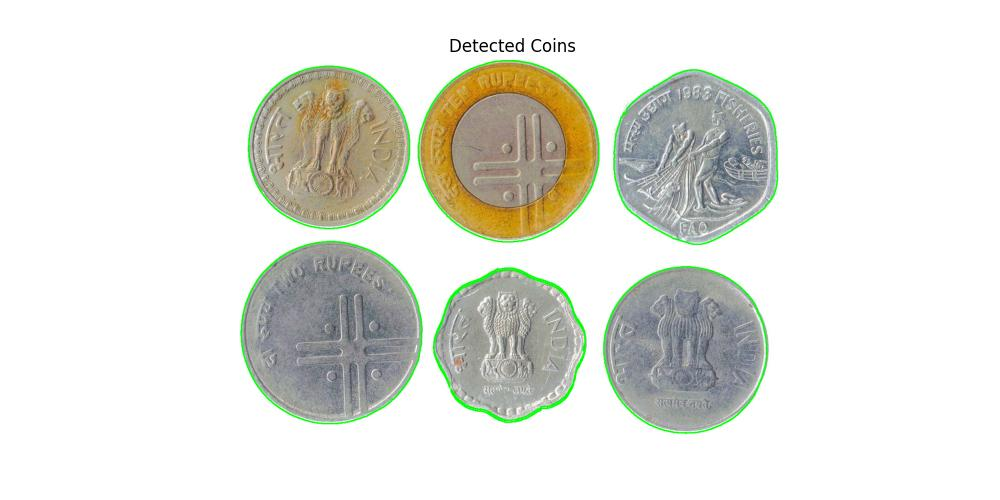
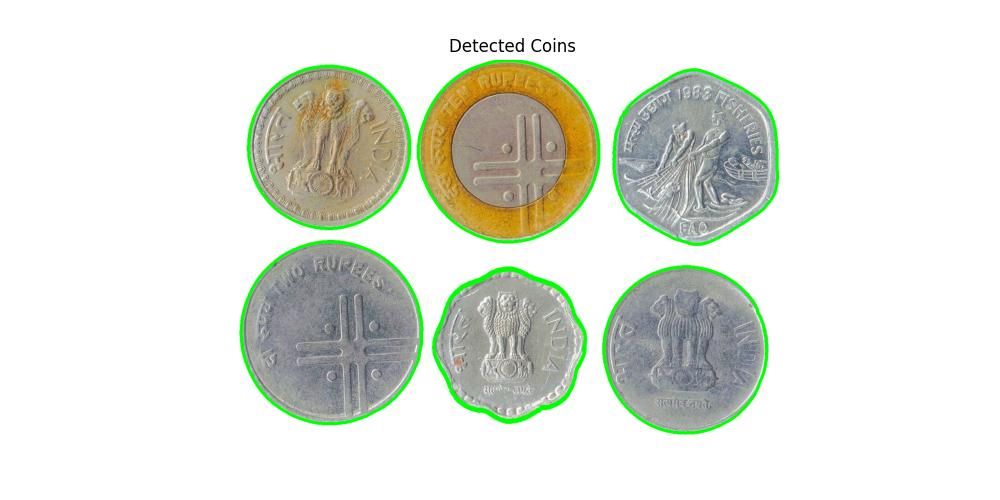
README for coin

diff --git a/panorama.py b/panorama.py
@@ -3,34 +3,39 @@ import numpy as np
 import matplotlib.pyplot as plt
 
 def save_image(title, img):
-    if len(img.shape) == 3:  # Color image
+    if len(img.shape) == 3:
         img = cv2.cvtColor(img, cv2.COLOR_BGR2RGB)
     plt.figure(figsize=(10, 5))
     plt.imshow(img)
     plt.title(title)
-    plt.axis('off')  # Hide axes
+    plt.axis('off')
     plt.savefig(f'images/{title}.jpg')
 
 def find_keypoints_and_matches(img1, img2, title):
-    # Find SIFT keypoints and matches between two images
     sift = cv2.SIFT_create()
     
-    # Detect keypoints and descriptors
     kp1, des1 = sift.detectAndCompute(img1, None)
     kp2, des2 = sift.detectAndCompute(img2, None)
+
+    # Use FLANN matcher for better accuracy
+    FLANN_INDEX_KDTREE = 1
+    index_params = dict(algorithm=FLANN_INDEX_KDTREE, trees=5)
+    search_params = dict(checks=50)
+    flann = cv2.FlannBasedMatcher(index_params, search_params)
     
-    # Match descriptors using BFMatcher
-    bf = cv2.BFMatcher(cv2.NORM_L2, crossCheck=True)
-    matches = bf.match(des1, des2)
-    
-    # Sort matches by distance (best matches first)
-    matches = sorted(matches, key=lambda x: x.distance)
-    
+    matches = flann.knnMatch(des1, des2, k=2)
+
+    # Apply Lowe's Ratio Test for better match filtering
+    good_matches = []
+    for m, n in matches:
+        if m.distance < 0.75 * n.distance:
+            good_matches.append(m)
+
     # Draw matches
-    match_img = cv2.drawMatches(img1, kp1, img2, kp2, matches[:50], None, flags=cv2.DrawMatchesFlags_NOT_DRAW_SINGLE_POINTS)
+    match_img = cv2.drawMatches(img1, kp1, img2, kp2, good_matches[:50], None, flags=cv2.DrawMatchesFlags_NOT_DRAW_SINGLE_POINTS)
     save_image(f'keypoint-matches-{title}-and-reference', match_img)
 
-    return kp1, kp2, matches
+    return kp1, kp2, good_matches
 
 def compute_homography(kp1, kp2, matches):
     # Compute the homography matrix using RANSAC
@@ -59,7 +64,7 @@ def warp_images(img1, img2, H):
     H_translated = translation_matrix @ H  # Adjust the homography
     
     # Warp img1 into the new panorama space
-    warped_img1 = cv2.warpPerspective(img1, H_translated, (x_max - x_min, y_max - y_min))
+    warped_img1 = cv2.warpPerspective(img1, H_translated, (x_max - x_min, y_max - y_min), cv2.INTER_CUBIC)
     
     # Also shift img2 to fit into the panorama
     translated_img2 = np.zeros((y_max - y_min, x_max - x_min, 3), dtype=np.uint8)
@@ -104,9 +109,15 @@ def create_panorama(image_files):
     for i, img in enumerate([images[0]] + images[2:]):
         panorama = stitch_images(img, panorama, title=str(i+1) if i == 0 else str(i+2))
 
+    scale_factor = 0.7
+    height, width = panorama.shape[:2]
+    new_dimensions = (int(width * scale_factor), int(height * scale_factor))
+    panorama = cv2.resize(panorama, new_dimensions, interpolation=cv2.INTER_AREA)
+
+
     save_image("final-panorama", panorama)
 
 if __name__ == "__main__":
-    image_files = ["2-1.jpeg", "2-2.jpeg", "2-3.jpeg", "2-4.jpeg"]
+    image_files = ["1.jpeg", "2.jpeg", "3.jpeg", "4.jpeg"]
     print('Using image 2 as the reference frame')
     create_panorama(image_files)

diff --git a/coin_detection.py b/coin_detection.py
@@ -25,7 +25,7 @@ def edge_and_coin_detection(image_blur_gray):
 
     # draw detected contours
     contour_image = cv2.cvtColor(image.copy(), cv2.COLOR_BGR2RGB)
-    cv2.drawContours(contour_image, contours, -1, (0,255,0), 2)
+    cv2.drawContours(contour_image, contours, -1, (0,255,0), 6)
 
     # Display detected contours
     plt.figure(figsize=(10,5))
@@ -66,26 +66,38 @@ def region_based_segmentation(image_thresh):
     
     return markers
 
-
-def count_coins(markers):
+def segment_individual_coins_and_count(markers, image):
     labels = np.unique(markers)
 
-
     coins = []
-    for label in labels[2:]:  
-    # Create a binary image in which only the area of the label is in the foreground 
-    # and the rest of the image is in the background   
+    for label in labels[2:]:
+        # Create a binary image - only the area of the label is in the foreground
         target = np.where(markers == label, 255, 0).astype(np.uint8)
         
-    # Perform contour extraction on the created binary image
-        contours, hierarchy = cv2.findContours(
+        # Perform contour extraction on the created binary image
+        contours, _ = cv2.findContours(
             target, cv2.RETR_EXTERNAL, cv2.CHAIN_APPROX_SIMPLE
         )
-        coins.append(contours[0])
+        
+        # For each coin (contour), extract and save the segmented coin
+        for i, contour in enumerate(contours):
+            # mask for the current coin
+            mask = np.zeros_like(target)
+            cv2.drawContours(mask, [contour], -1, 255, thickness=cv2.FILLED)
+            
+            # Extract the coin from the original
+            coin = cv2.bitwise_and(image, image, mask=mask)
+            
+            # bounding box around the coin
+            x, y, w, h = cv2.boundingRect(contour)
+            coin_cropped = coin[y:y+h, x:x+w]
+            
+            coin_filename = f'coin_{label-1}.jpg'
+            cv2.imwrite(f'images/{coin_filename}', coin_cropped)
+            
+            coins.append(coin_cropped)
 
-    number_of_objects_in_image= len(coins)
-
-    print ("The number of objects in this image: ", str(number_of_objects_in_image))
+    print("The number of objects in this image: ", len(coins))
 
 
 if __name__ == "__main__":
@@ -93,4 +105,4 @@ if __name__ == "__main__":
     image_blur_gray, image_res, image_thresh = preprocess_image(image)
     edge_and_coin_detection(image_blur_gray)
     markers = region_based_segmentation(image_thresh)
-    count_coins(markers)
+    segment_individual_coins_and_count(markers, image)

diff --git a/README.md b/README.md
@@ -1,1 +1,73 @@
 # VR_Assignment1_Dyuthi-Vivek_IMT2022523
+
+## Coin detection
+
+![coins](coins.jpg)  
+Input image file: `coins.jpg`
+
+---
+
+### **1. Image preprocessing**
+- **Median blurring (`cv2.medianBlur`)** - Used to remove noise while preserving edges.
+
+- **Grayscale conversion (`cv2.cvtColor`)** - Converted the image to grayscale. This was used in Canny edge detection to simplify gradient calculations.
+
+- **Thresholding with Otsu’s Method (`cv2.threshold`)** - Converted the grayscale image into a binary image. Otsu’s method automatically selects the best threshold based on histogram analysis to separate objects from the background. The produced binary image was used in region-based segmentation.
+
+---
+
+### **2. Edge detection and contour detection**
+- **Canny Edge Detection (`cv2.Canny`)** - Detected edges by calculating intensity changes in the image. Canny worked well after the two thresholds were tweaked to achieve a more accurate edge detection.
+
+![canny](images/coin-detection-canny.jpg)  
+file: `images/coin-detection-canny.jpg`
+
+- **Dilation (`cv2.dilate`)** - Strengthened the edges to ensure complete contours. Increasing the number of iterations improved contour detection by reinforcing the edges.
+
+- **Contour detection (`cv2.findContours`)** - Identified the boundaries of coins based on detected edges. A green boundary was drawn around each coin.
+
+![contour](images/coin-detection-contours.jpg)  
+file: `images/coin-detection-contours.jpg`
+
+---
+
+### **3. Region-based segmentation**
+- **Morphological Opening (`cv2.morphologyEx`)** - Used to remove small noise in the thresholded image.
+
+- **Distance Transform (`cv2.distanceTransform`)** - Used to identify the center of objects to ensure proper separation. Lowering the threshold (to 0.2) ensured that coins were detected more fully and distinctly.
+
+- **Watershed Algorithm (`cv2.watershed`)** - This region-based segmentation method was used to segment each coin. It separates touching coins by treating them as topographical regions.  
+  The algorithm assigns labels as follows:  
+    - `1` → Background  
+    - `2, 3, 4,...` → Different segmented objects  
+    - `-1` → Object boundaries (watershed lines), which help separate overlapping coins.
+
+![segmented](images/coin-detection-region-based-segmented.jpg)  
+file: `images/coin-detection-region-based-segmented.jpg`
+
+---
+
+### **4. Segmentation and Counting of Coins**
+- **Connected Components Analysis (`cv2.connectedComponents`)** - Assigned a unique label to each coin by labeling connected objects in the sure foreground.
+- **Contours in Labeled Regions (`cv2.findContours`)** - Counted the segmented coins.
+- **Extracted each coin as a separate image** - A mask was created for each individual coin using **`cv2.bitwise_and`**.  
+  A bounding box was applied using **`cv2.boundingRect`** to isolate each coin clearly.
+
+#### **Code Output:**
+The number of objects in this image: **6**  
+
+#### **Segmented Coin Images:**
+<p align="center">
+    <img src="images/coin_1.jpg" width="100">
+    <img src="images/coin_2.jpg" width="100">
+    <img src="images/coin_3.jpg" width="100">
+    <img src="images/coin_4.jpg" width="100">
+    <img src="images/coin_5.jpg" width="100">
+    <img src="images/coin_6.jpg" width="100">
+</p>
+
+---
+
+#### **Observations:**
+- The final count of coins was accurate for well-separated coins.
+- In cases where coins were highly overlapping, the segmentation sometimes grouped them as a single object, highlighting a limitation of the watershed approach.
